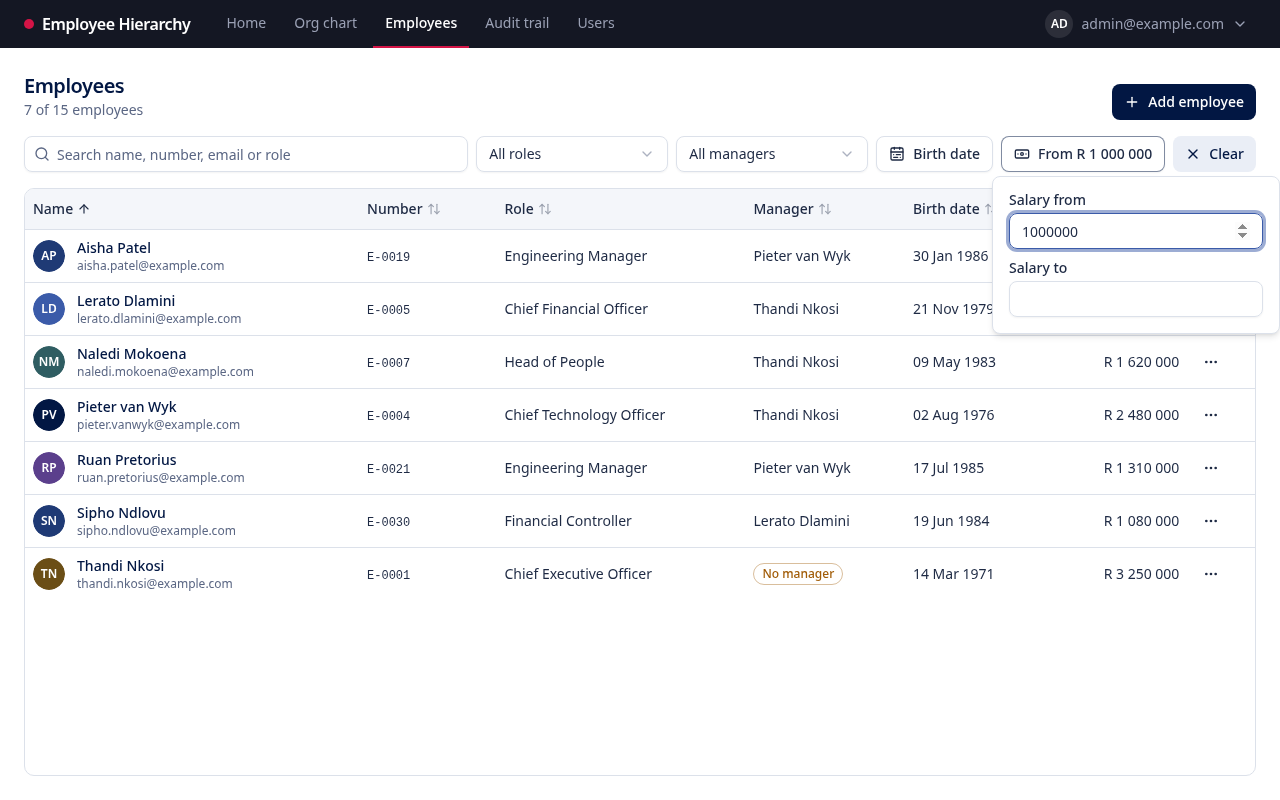
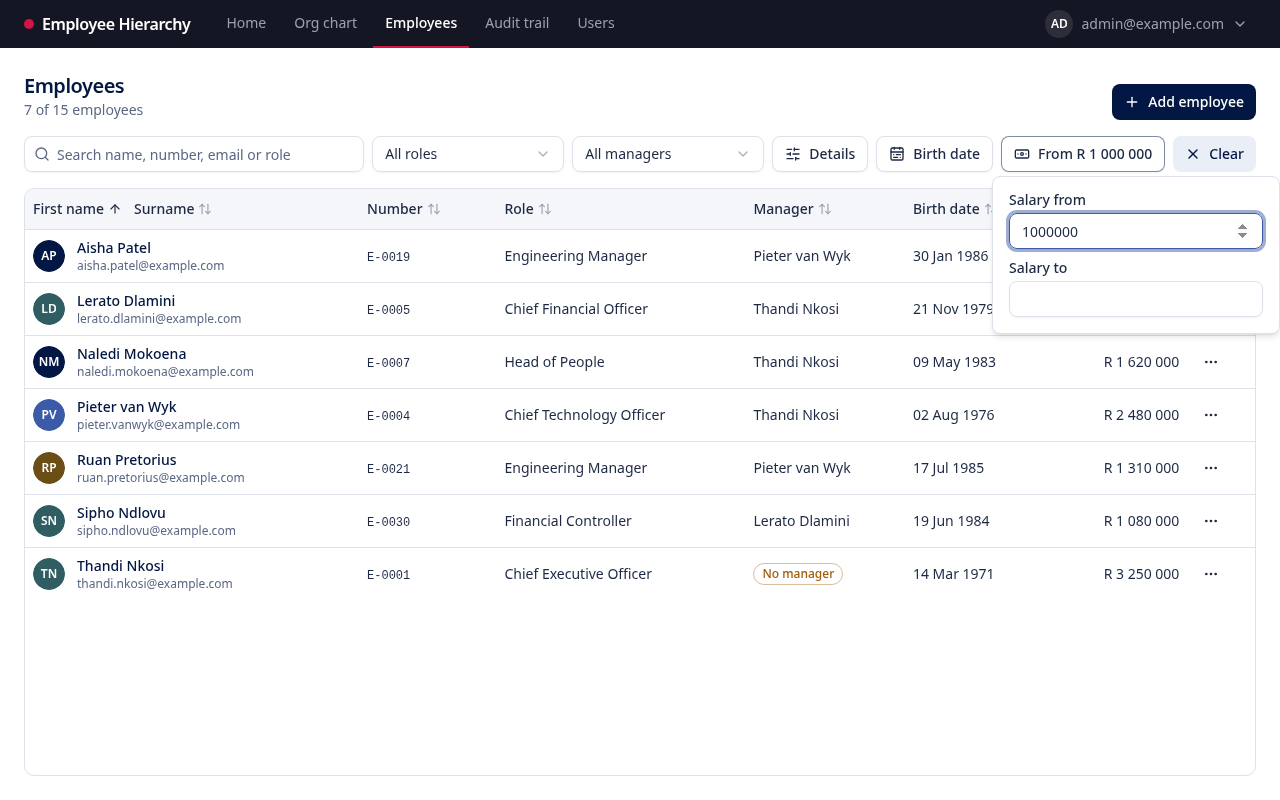
Document the table's field filters and surname sort
User guide, SRS FR-23 and FR-24, and US-09, whose gap note was out of date:
birth date and salary already had range filters. Retakes the three table
screenshots.

diff --git a/docs/user-stories.md b/docs/user-stories.md
@@ -58,10 +58,9 @@ EPI-USE Africa needs one place, reachable at a URL, to keep its employee records
 
 **US-09 — Sort and filter a list of employees.** As any user, I want a table of all employees that I can sort and filter, so that I can answer questions like "who are all the developers under Thandi?".
 
-- Every column sorts: name, employee number, role, manager, birth date and salary.
-- A search box matches name, employee number, email and role, and dropdowns filter by role and by manager.
+- Every column sorts: first name, surname, employee number, role, manager, birth date and salary.
+- A search box matches name, employee number, email and role. Dropdowns filter by role and by manager, **Details** filters first name, surname, employee number and email one at a time, and birth date and salary filter by a range.
 - Sorting and filtering happen in the browser, so they respond instantly ([ADR-0005](adr/0005-react-vite-spa-for-the-web-client.md)).
-- **Gap:** birth date and salary can be sorted but have no filter control of their own yet.
 
 ### Avatars
 
@@ -132,18 +131,18 @@ EPI-USE Africa needs one place, reachable at a URL, to keep its employee records
 
 ## Coverage of the brief
 
-| Brief requirement                                                        | Stories                                                  |
-| ------------------------------------------------------------------------ | -------------------------------------------------------- |
-| Create, read, update and delete employees                                | US-01, US-02, US-03                                      |
-| Set a reporting line manager                                             | US-04                                                    |
-| No one may be their own manager                                          | US-05                                                    |
-| Employees with no manager (e.g. the CEO)                                 | US-06                                                    |
-| Minimum fields: name, surname, birth date, number, salary, role, manager | US-01                                                    |
-| Visual hierarchy (tree or graph)                                         | US-07                                                    |
-| Search the hierarchy to find, edit or delete                             | US-08                                                    |
-| Table sortable and filterable on any field                               | US-09 (birth date and salary sort but do not yet filter) |
-| Gravatar integration                                                     | US-10                                                    |
-| Avatar upload _(optional)_                                               | US-11                                                    |
-| Deployed to the cloud at a URL                                           | US-17                                                    |
-| No mocked data; changes stored in a remote database                      | US-17                                                    |
-| Additional features                                                      | US-12 to US-16, US-18 to US-23                           |
+| Brief requirement                                                        | Stories                        |
+| ------------------------------------------------------------------------ | ------------------------------ |
+| Create, read, update and delete employees                                | US-01, US-02, US-03            |
+| Set a reporting line manager                                             | US-04                          |
+| No one may be their own manager                                          | US-05                          |
+| Employees with no manager (e.g. the CEO)                                 | US-06                          |
+| Minimum fields: name, surname, birth date, number, salary, role, manager | US-01                          |
+| Visual hierarchy (tree or graph)                                         | US-07                          |
+| Search the hierarchy to find, edit or delete                             | US-08                          |
+| Table sortable and filterable on any field                               | US-09                          |
+| Gravatar integration                                                     | US-10                          |
+| Avatar upload _(optional)_                                               | US-11                          |
+| Deployed to the cloud at a URL                                           | US-17                          |
+| No mocked data; changes stored in a remote database                      | US-17                          |
+| Additional features                                                      | US-12 to US-16, US-18 to US-23 |

diff --git a/docs/srs.md b/docs/srs.md
@@ -102,14 +102,14 @@ Priority: **M** must (the brief), **S** should (extension). Verification: **U** 
 
 ### 3.3 Viewing and finding
 
-| ID    | Requirement                                                                                                                                   | Pri | Source | Verified |
-| ----- | --------------------------------------------------------------------------------------------------------------------------------------------- | --- | ------ | -------- |
-| FR-20 | The organisation is shown as an interactive tree that can be panned and zoomed, with each person's picture, name, role and number of reports. | M   | B      | U, E     |
-| FR-21 | Users can search the hierarchy by name, role or employee number and open the person found.                                                    | M   | B      | E        |
-| FR-22 | From a search result, admins can edit or delete the person.                                                                                   | M   | B      | E        |
-| FR-23 | A table lists every employee, sortable on every field.                                                                                        | M   | B      | U, E     |
-| FR-24 | The table filters on every field: free text across name, number, email and role; role; manager; birth-date range; salary range.               | M   | B      | U, E     |
-| FR-25 | Search text is matched literally; `%`, `_` and quotes have no special meaning.                                                                | S   | X      | U, I     |
+| ID    | Requirement                                                                                                                                                                                                   | Pri | Source | Verified |
+| ----- | ------------------------------------------------------------------------------------------------------------------------------------------------------------------------------------------------------------- | --- | ------ | -------- |
+| FR-20 | The organisation is shown as an interactive tree that can be panned and zoomed, with each person's picture, name, role and number of reports.                                                                 | M   | B      | U, E     |
+| FR-21 | Users can search the hierarchy by name, role or employee number and open the person found.                                                                                                                    | M   | B      | E        |
+| FR-22 | From a search result, admins can edit or delete the person.                                                                                                                                                   | M   | B      | E        |
+| FR-23 | A table lists every employee, sortable on every field, with first name and surname sortable separately.                                                                                                       | M   | B      | U, E     |
+| FR-24 | The table filters on every field: free text across name, number, email and role, every word matching; first name, surname, number and email each on their own; role; manager; birth-date range; salary range. | M   | B      | U, E     |
+| FR-25 | Search text is matched literally; `%`, `_` and quotes have no special meaning.                                                                                                                                | S   | X      | U, I     |
 
 ### 3.4 Pictures
 

diff --git a/docs/user-guide.md b/docs/user-guide.md
@@ -126,8 +126,9 @@ Choose **Find an employee** (or press **Ctrl K**, **⌘ K** on a Mac) and type p
 
 - **Search** matches name, employee number, email and role. Several words must all match, so "aisha manager" finds Aisha Patel, Engineering Manager.
 - **All roles** and **All managers** narrow the list to one role or one manager's direct reports.
+- **Details** filters one field at a time: first name, surname, employee number or email, each matching any part of it. The button shows how many are in use.
 - **Birth date** and **Salary** _(admins)_ filter by a range. Fill in either end, or both; an empty end means "no limit". Both ends are included.
-- **Sort** by any column: select its heading. Select again to reverse it. Salary sorts highest first on the first select; the other columns start A to Z or earliest first.
+- **Sort** by any column: select its heading. Select again to reverse it. The name column has two headings, **First name** and **Surname**, so either can lead. Salary sorts highest first on the first select; the other columns start A to Z or earliest first.
 - **Clear** removes every filter at once.
 
 ![Filtering by salary](images/employees-salary-filter.png)
